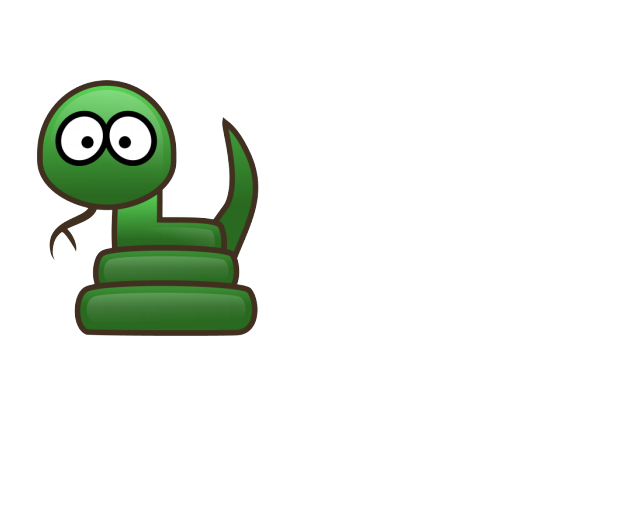
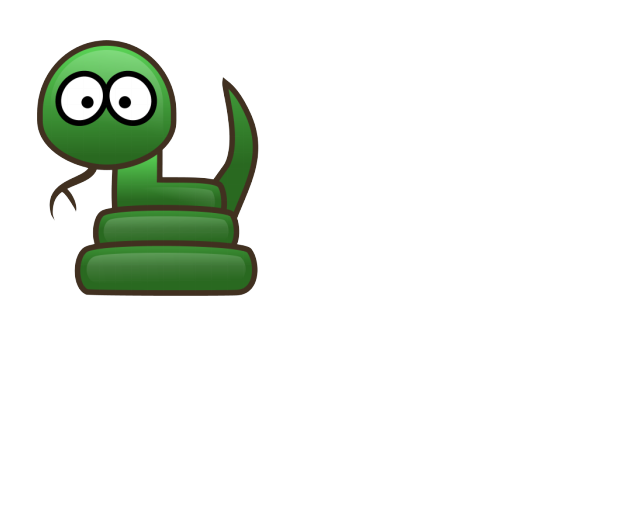
new code to draw bubbles

Changed region(s): [[0.0312, 0.0615, 0.4062, 0.6462]]

diff --git a/xkaa.py b/xkaa.py
@@ -208,7 +208,7 @@ class Puppet():
 
 		# Canvas height = max of character height or balloon height, plus margins
 		top_margin = 20
-		bottom_margin = 20
+		bottom_margin = 60  # Extra space so character's base is visible
 		canvas_height = max(character_height, self.balloon_height) + top_margin + bottom_margin
 
 		# Ensure minimum dimensions
@@ -227,8 +227,9 @@ class Puppet():
 		# Character on the left side
 		self.character_x = left_margin
 
-		# Character positioned at bottom
-		self.character_y = canvas_height - character_height
+		# Character positioned with some bottom margin so we can see its base
+		bottom_character_margin = 40  # Space below character so bottom is visible
+		self.character_y = canvas_height - character_height - bottom_character_margin
 
 		# Balloon to the right of character
 		# Character image is character_width (250px) wide
@@ -259,48 +260,77 @@ class Puppet():
 		self.balloon_top = balloon_top
 
 		if self.balloontype == 'say':
-			# Calculate speech bubble tail
-			# Character is on the LEFT, balloon is on the RIGHT
-			# Tail should have WIDE BASE at balloon, NARROW POINT near character's mouth
-
-			# Character's mouth position - on the right side of the face
-			character_mouth_x = self.character_x + 200  # Right edge of character's face
-			character_mouth_y = character_head_y + 60   # Mouth level
-
-			# Balloon attachment - left edge of balloon, aligned with mouth vertically
-			balloon_attachment_x = balloon_left
-			balloon_attachment_y = max(balloon_top + 40, min(balloon_bottom - 40, character_mouth_y))
-
-			# Draw the ellipse first
-			draw.ellipse((balloon_left, balloon_top, balloon_right, balloon_bottom), fill='white', outline='black')
-
-			# Create tail triangle: WIDE BASE at balloon, POINT at character
-			# Calculate the direction vector from character mouth to balloon
+			# Draw unified balloon + tail as ONE continuous shape
 			import math
-			dx = balloon_attachment_x - character_mouth_x
-			dy = balloon_attachment_y - character_mouth_y
-			distance = math.sqrt(dx*dx + dy*dy)
 
-			# Normalize the direction vector
-			if distance > 0:
-				dx_norm = dx / distance
-				dy_norm = dy / distance
-			else:
-				dx_norm, dy_norm = 1, 0
+			# Character's mouth position
+			character_mouth_x = self.character_x + 200
+			character_mouth_y = character_head_y + 60
 
-			# Calculate perpendicular vector for the base (rotate 90 degrees)
-			perp_x = -dy_norm
-			perp_y = dx_norm
+			# Tail attachment area
+			balloon_attachment_y = max(balloon_top + 40, min(balloon_bottom - 40, character_mouth_y))
+			tail_spread = 30
+			tail_top_y = balloon_attachment_y - tail_spread
+			tail_bottom_y = balloon_attachment_y + tail_spread
 
-			# Base width at balloon edge
-			tail_base_spread = 18
+			# Create unified shape by tracing the outline
+			# Start from top of balloon, go around clockwise, include tail, complete circle
 
-			# Create base vertices perpendicular to the tail direction
-			self.tail_points = [
-				(balloon_attachment_x + perp_x * tail_base_spread, balloon_attachment_y + perp_y * tail_base_spread),  # Top of base
-				(character_mouth_x, character_mouth_y),                                                                  # Point at character's mouth
-				(balloon_attachment_x - perp_x * tail_base_spread, balloon_attachment_y - perp_y * tail_base_spread)   # Bottom of base
-			]
+			center_x = (balloon_left + balloon_right) / 2
+			center_y = (balloon_top + balloon_bottom) / 2
+			radius_x = (balloon_right - balloon_left) / 2
+			radius_y = (balloon_bottom - balloon_top) / 2
+
+			outline_points = []
+
+			# Calculate angles for tail attachment points
+			# Angle from center to tail points
+			tail_top_angle = math.atan2(tail_top_y - center_y, balloon_left - center_x)
+			tail_bottom_angle = math.atan2(tail_bottom_y - center_y, balloon_left - center_x)
+
+			# Draw ellipse outline going clockwise, skipping the tail section
+			num_ellipse_points = 100
+			for i in range(num_ellipse_points + 1):
+				angle = (2 * math.pi * i) / num_ellipse_points - math.pi  # Start from left (-pi)
+
+				# Skip the section where the tail connects
+				if tail_bottom_angle <= angle <= tail_top_angle:
+					if len(outline_points) == 0 or outline_points[-1] != (balloon_left, tail_top_y):
+						# Add top tail attachment point
+						outline_points.append((balloon_left, tail_top_y))
+					continue
+
+				x = center_x + radius_x * math.cos(angle)
+				y = center_y + radius_y * math.sin(angle)
+				outline_points.append((x, y))
+
+			# Add curved tail
+			# Top curve of tail
+			num_tail_points = 12
+			for i in range(num_tail_points + 1):
+				t = i / num_tail_points
+				ctrl_x = (balloon_left + character_mouth_x) / 2 - 15
+				ctrl_y = (tail_top_y + character_mouth_y) / 2
+
+				x = (1-t)**2 * balloon_left + 2*(1-t)*t * ctrl_x + t**2 * character_mouth_x
+				y = (1-t)**2 * tail_top_y + 2*(1-t)*t * ctrl_y + t**2 * character_mouth_y
+				outline_points.append((x, y))
+
+			# Bottom curve of tail (reverse)
+			for i in range(num_tail_points, -1, -1):
+				t = i / num_tail_points
+				ctrl_x = (balloon_left + character_mouth_x) / 2 - 15
+				ctrl_y = (tail_bottom_y + character_mouth_y) / 2
+
+				x = (1-t)**2 * character_mouth_x + 2*(1-t)*t * ctrl_x + t**2 * balloon_left
+				y = (1-t)**2 * character_mouth_y + 2*(1-t)*t * ctrl_y + t**2 * tail_bottom_y
+				outline_points.append((x, y))
+
+			# Draw the complete unified shape
+			draw.polygon(outline_points, fill='white', outline='black', width=2)
+
+			# Mark that we drew the unified shape (no separate tail needed)
+			self.tail_data = None
 		elif (self.balloontype == 'dream') or (self.balloontype == 'think'):
 			draw.ellipse((balloon_left, balloon_top, balloon_right, balloon_bottom), fill='white', outline='black')
 
@@ -406,37 +436,43 @@ class Puppet():
 		draw = ImageDraw.Draw(img)
 		font = ImageFont.truetype(self.fontfile, 15)
 
-		# Draw tail on top of character (for 'say' mode)
-		if hasattr(self, 'tail_points') and self.tail_points:
-			# Calculate direction from point to base center to extend base into balloon
+		# Draw curved tail on top of character (for 'say' mode)
+		if hasattr(self, 'tail_data') and self.tail_data:
 			import math
-			# Base center is the midpoint of the two base vertices
-			base_center_x = (self.tail_points[0][0] + self.tail_points[2][0]) / 2
-			base_center_y = (self.tail_points[0][1] + self.tail_points[2][1]) / 2
+			tail = self.tail_data
 
-			# Direction from tip to base
-			dx = base_center_x - self.tail_points[1][0]
-			dy = base_center_y - self.tail_points[1][1]
-			distance = math.sqrt(dx*dx + dy*dy)
+			tip = tail['tip']
+			top_attach = tail['top_attach']
+			bottom_attach = tail['bottom_attach']
 
-			if distance > 0:
-				# Normalize and extend by 5 pixels
-				extend_amount = 5
-				extend_x = (dx / distance) * extend_amount
-				extend_y = (dy / distance) * extend_amount
+			# Create smooth curved tail
+			curved_points = []
 
-				extended_tail = [
-					(self.tail_points[0][0] + extend_x, self.tail_points[0][1] + extend_y),  # Top of base - extend into balloon
-					(self.tail_points[1][0], self.tail_points[1][1]),                         # Tip at character - unchanged
-					(self.tail_points[2][0] + extend_x, self.tail_points[2][1] + extend_y)   # Bottom of base - extend into balloon
-				]
-			else:
-				extended_tail = self.tail_points
+			# Top curve: from top attachment point to tip
+			num_points = 12
+			for i in range(num_points + 1):
+				t = i / num_points
+				# Quadratic bezier with control point offset to create curve
+				ctrl_x = (top_attach[0] + tip[0]) / 2 - 15
+				ctrl_y = (top_attach[1] + tip[1]) / 2
 
-			# Draw tail with outline
-			draw.polygon(extended_tail, fill='white', outline='black', width=2)
-			# Fill the tail again without outline to ensure solid fill
-			draw.polygon(extended_tail, fill='white')
+				x = (1-t)**2 * top_attach[0] + 2*(1-t)*t * ctrl_x + t**2 * tip[0]
+				y = (1-t)**2 * top_attach[1] + 2*(1-t)*t * ctrl_y + t**2 * tip[1]
+				curved_points.append((x, y))
+
+			# Bottom curve: from tip back to bottom attachment point
+			for i in range(num_points, -1, -1):
+				t = i / num_points
+				ctrl_x = (bottom_attach[0] + tip[0]) / 2 - 15
+				ctrl_y = (bottom_attach[1] + tip[1]) / 2
+
+				x = (1-t)**2 * tip[0] + 2*(1-t)*t * ctrl_x + t**2 * bottom_attach[0]
+				y = (1-t)**2 * tip[1] + 2*(1-t)*t * ctrl_y + t**2 * bottom_attach[1]
+				curved_points.append((x, y))
+
+			# Draw the curved tail
+			draw.polygon(curved_points, fill='white', outline='black', width=2)
+			draw.polygon(curved_points, fill='white')
 
 		# Draw thought bubbles on top of character (for 'think' mode)
 		if hasattr(self, 'thought_bubbles') and self.thought_bubbles:
